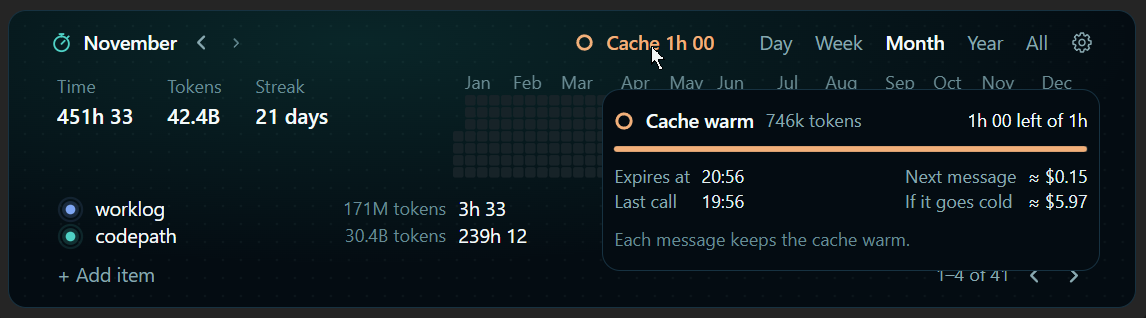
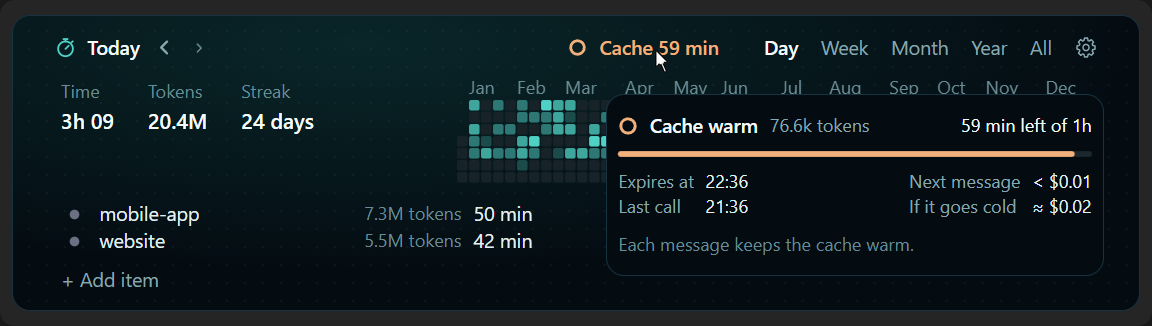
docs: refresh the screenshots and gif with the prompt cache
Every image now shows the cache status. Adds a cold cache image and a cache item to the usage image.

diff --git a/README.md b/README.md
@@ -11,7 +11,7 @@
 </p>
 
 <p align="center">
-  <img src="docs/screenshots/desktop.gif" width="880" alt="Worklog above the Claude Code prompt box: the time, the tokens and the streak, a heatmap of the year, and the time of each name. The pointer points to Tokens, and a box shows the tokens of each type and each model. Then it clicks Month and All. In the settings, it picks the Sakura theme and sets Show to Tokens and price. It clicks Day and points to the API price: the box now shows the price of each line. It clicks All, then goes back to the Aurora theme and to Time and tokens.">
+  <img src="docs/screenshots/desktop.gif" width="880" alt="Worklog above the Claude Code prompt box: the time, the tokens and the streak, the cache status, a heatmap of the year, and the time of each name. The pointer points to Cache 56 min, and a box shows how long the cache stays warm and the price of the next message. Then it points to Tokens, and a box shows the tokens of each type and each model. Then it clicks Month and All. In the settings, it picks the Sakura theme and sets Show to Tokens and price. It clicks Day and points to the API price: the box now shows the price of each line. It clicks All, then goes back to the Aurora theme and to Time and tokens.">
 </p>
 
 <p align="center">
@@ -83,7 +83,7 @@ To hear about each new version, watch the releases of this repository: **Watch**
 Each line in the list is a name: a project or a task. The bright dot marks the name of this session.
 
 <p align="center">
-  <img src="docs/screenshots/usage.png" width="880" alt="Worklog with 6 numbered parts. 1: the Day, Week, Month, Year and All tabs, at the top right. 2: the back and forward arrows, next to Today. 3: the gear, at the top right. 4: the switch icon next to the name website. 5: Add item, under the list. 6: mobile-app, the name of this session, with a bright dot.">
+  <img src="docs/screenshots/usage.png" width="880" alt="Worklog with 7 numbered parts. 1: the Day, Week, Month, Year and All tabs, at the top right. 2: the back and forward arrows, next to Today. 3: the gear, at the top right. 4: the switch icon next to the name website. 5: Add item, under the list. 6: mobile-app, the name of this session, with a bright dot. 7: Cache 49 min, to the left of the tabs.">
 </p>
 
 1. **Period.** **Day**, **Week**, **Month**, **Year** and **All** change the period that you see.
@@ -92,6 +92,7 @@ Each line in the list is a name: a project or a task. The bright dot marks the n
 4. **Switch.** Hover over another name and click **⇄** to move this session to it, from now on.
 5. **New name.** **+ Add item** creates a name and moves this session to it.
 6. **Rename.** Hover over the name with the bright dot and click **✎**. Past days get the new name too.
+7. **Cache.** The status of the prompt cache. See [Prompt cache](#prompt-cache).
 
 Hover over a day in the heatmap to see its numbers.
 
@@ -151,7 +152,7 @@ When Worklog finds the first ID of a session, the time before it also goes to th
 If tokens matter more to you than time, set **Show** to **Tokens and price** in the settings. The API price then takes the place of the time.
 
 <p align="center">
-  <img src="docs/screenshots/price.png" width="880" alt="Worklog with Show set to Tokens and price: 21.5M tokens and $23 today, and the tokens and the price of each name.">
+  <img src="docs/screenshots/price.png" width="880" alt="Worklog with Show set to Tokens and price: 20.3M tokens and $20 today, and the tokens and the price of each name.">
 </p>
 
 - The price is what your tokens would cost on the Anthropic API.
@@ -163,12 +164,16 @@ If tokens matter more to you than time, set **Show** to **Tokens and price** in 
 Hover over **Tokens**, **API price** or the tokens of a name to see your tokens by type and by model. This works in the desktop app.
 
 <p align="center">
-  <img src="docs/screenshots/details.png" width="880" alt="Worklog with Show set to Tokens and price. The pointer is on the API price of today, 21 dollars, and a box is open under it. On the left: input 46.1k tokens for 14 cents, output 413k for 6.37 dollars, cache write 1.7M for 11 dollars, cache read 20.1M for 3.12 dollars. On the right: Opus 5.5, 12.4M tokens for 15 dollars, and Sonnet 5.5, 9.9M tokens for 5.80 dollars.">
+  <img src="docs/screenshots/details.png" width="880" alt="Worklog with Show set to Tokens and price. The pointer is on the API price of today, 20 dollars, and a box is open under it. On the left: input 33.4k tokens for 12 cents, output 361k for 6.19 dollars, cache write 1.6M for 10 dollars, cache read 18.3M for 3.17 dollars. On the right: Opus 5.5, 14.7M tokens for 16 dollars, Sonnet 5.5, 5.4M tokens for 3.45 dollars, and Haiku 5.5, 152k tokens for 2 cents.">
 </p>
 
 ## Prompt cache
 
-Claude Code keeps your conversation in a prompt cache. While the cache is warm, each message reads the conversation from the cache at a low price. After some time without a message, the cache goes cold. The next message then writes the whole conversation again, at full price.
+Claude Code keeps your conversation in a prompt cache, which makes each message cheaper. After some time without sending a message, the cache goes cold. The next message then writes the whole conversation again, at full price.
+
+<p align="center">
+  <img src="docs/screenshots/cache-cold.png" width="880" alt="Worklog with the pointer on Cache cold, at the top, to the left of the tabs. A box is open under it: Cache cold, 76.1k tokens. It expired at 21:23, and the last call was at 20:23. The next message costs about $0.02, and less than $0.01 with a warm cache. Under it: The next message writes the whole context again.">
+</p>
 
 Worklog shows the cache status at the top, to the left of the tabs:
 
@@ -179,7 +184,7 @@ Worklog shows the cache status at the top, to the left of the tabs:
 In the desktop app, hover over the cache status to see more: when the cache expires, how long it lives, the time of the last call, the size of the context, and the estimated price of the next message, warm or cold.
 
 <p align="center">
-  <img src="docs/screenshots/cache.png" width="880" alt="Worklog with the pointer on Cache 1h 00, at the top, to the left of the tabs. A box is open under it: Cache warm, 746k tokens, 1h 00 left of 1h. It expires at 20:56, and the last call was at 19:56. The next message costs about $0.15, and about $5.97 if the cache goes cold. Under it: Each message keeps the cache warm.">
+  <img src="docs/screenshots/cache.png" width="880" alt="Worklog with the pointer on Cache 59 min, at the top, to the left of the tabs. A box is open under it: Cache warm, 76.6k tokens, 59 min left of 1h. It expires at 22:36, and the last call was at 21:36. The next message costs less than $0.01, and about $0.02 if the cache goes cold. Under it: Each message keeps the cache warm.">
 </p>
 
 - Each call to the model makes the cache warm again for its full time. Claude Code usually keeps the cache for 1 hour.
